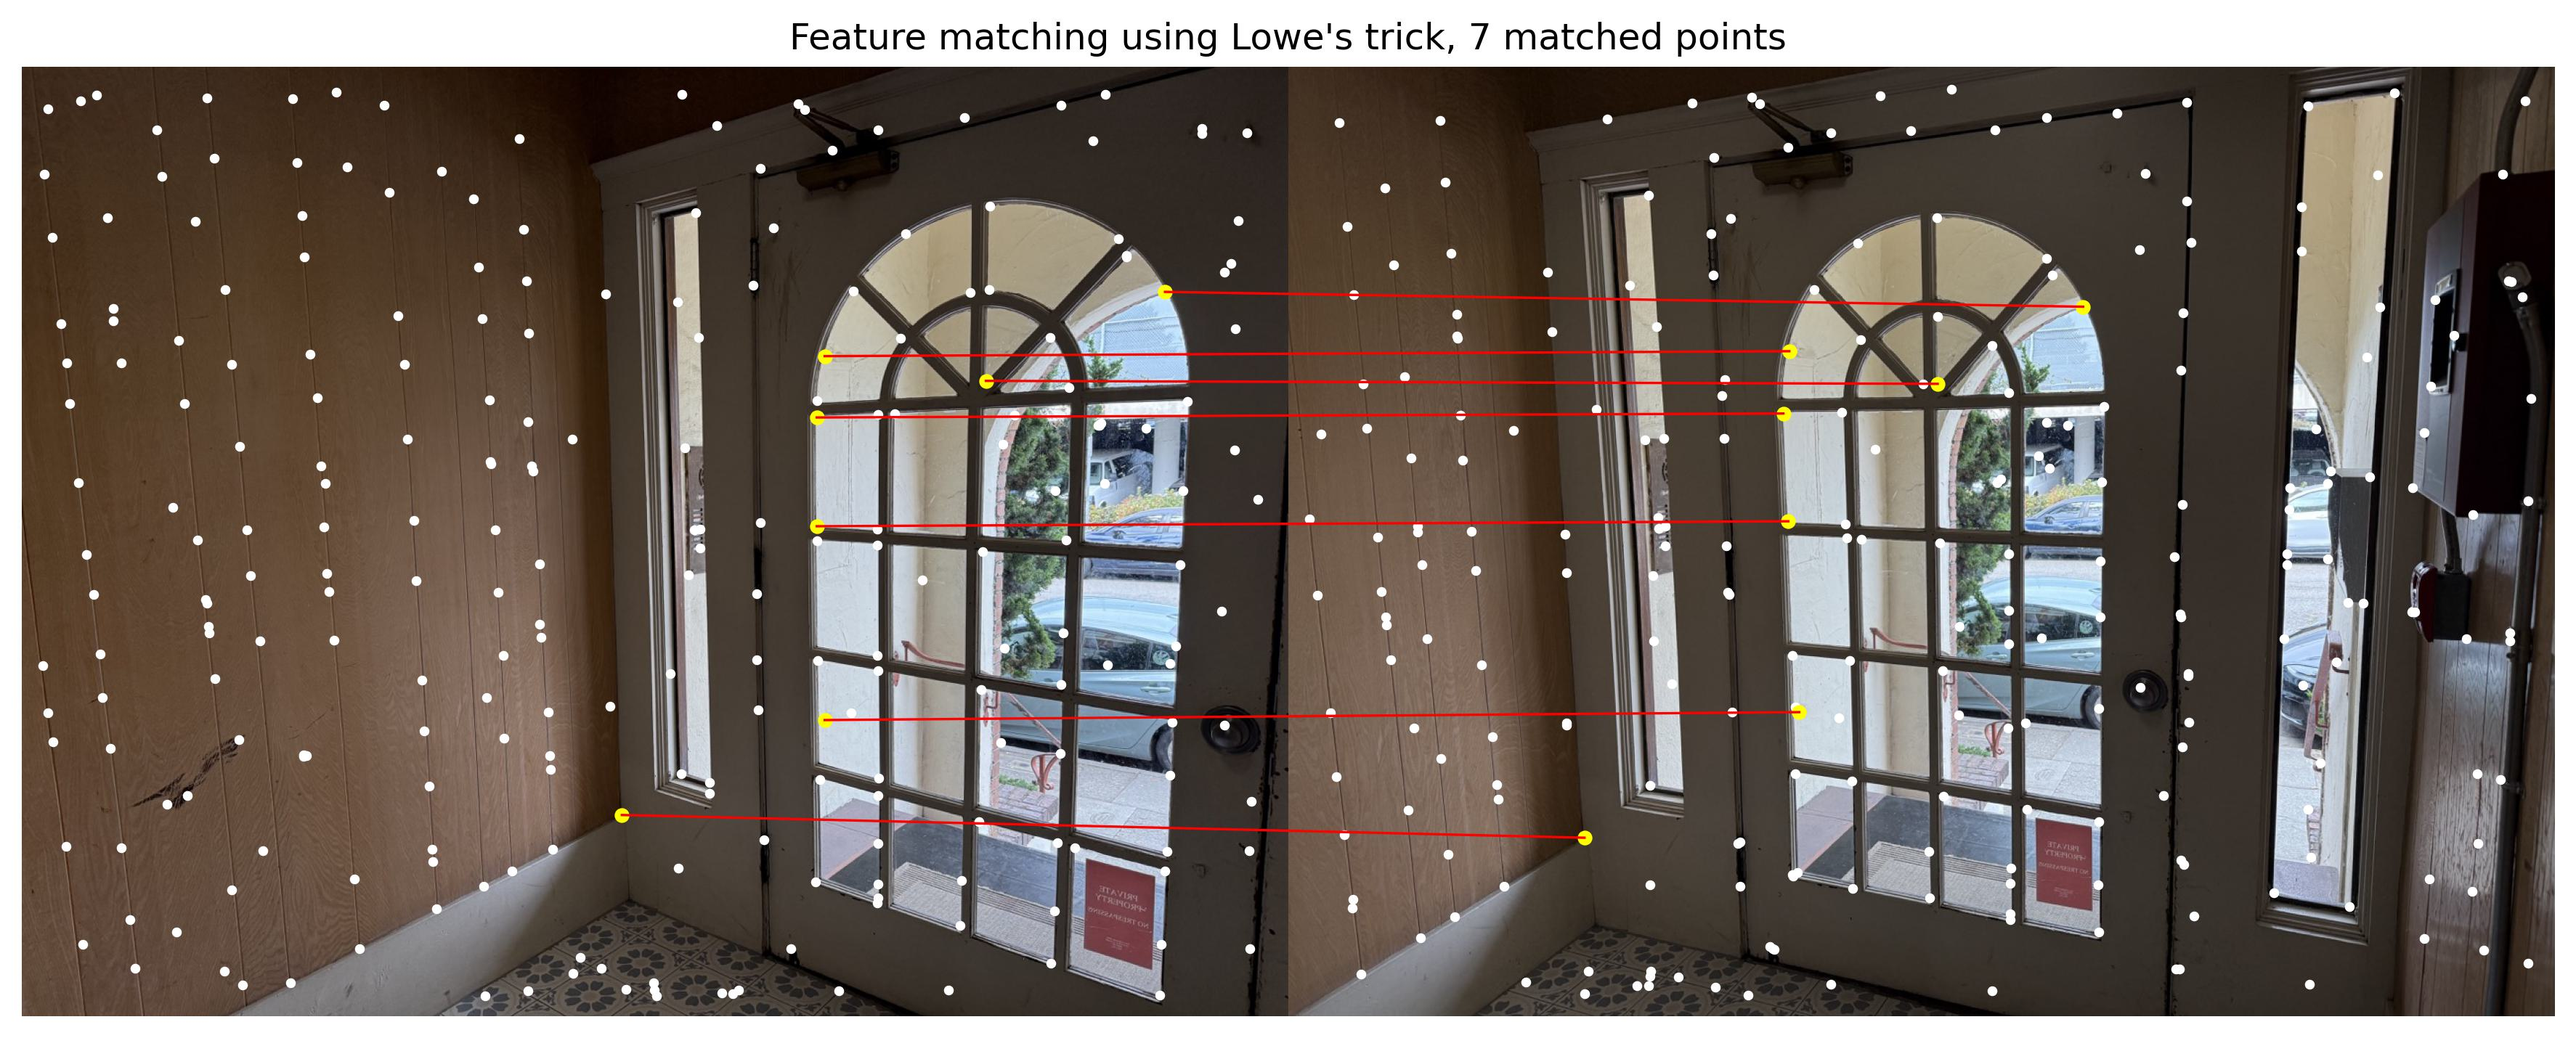
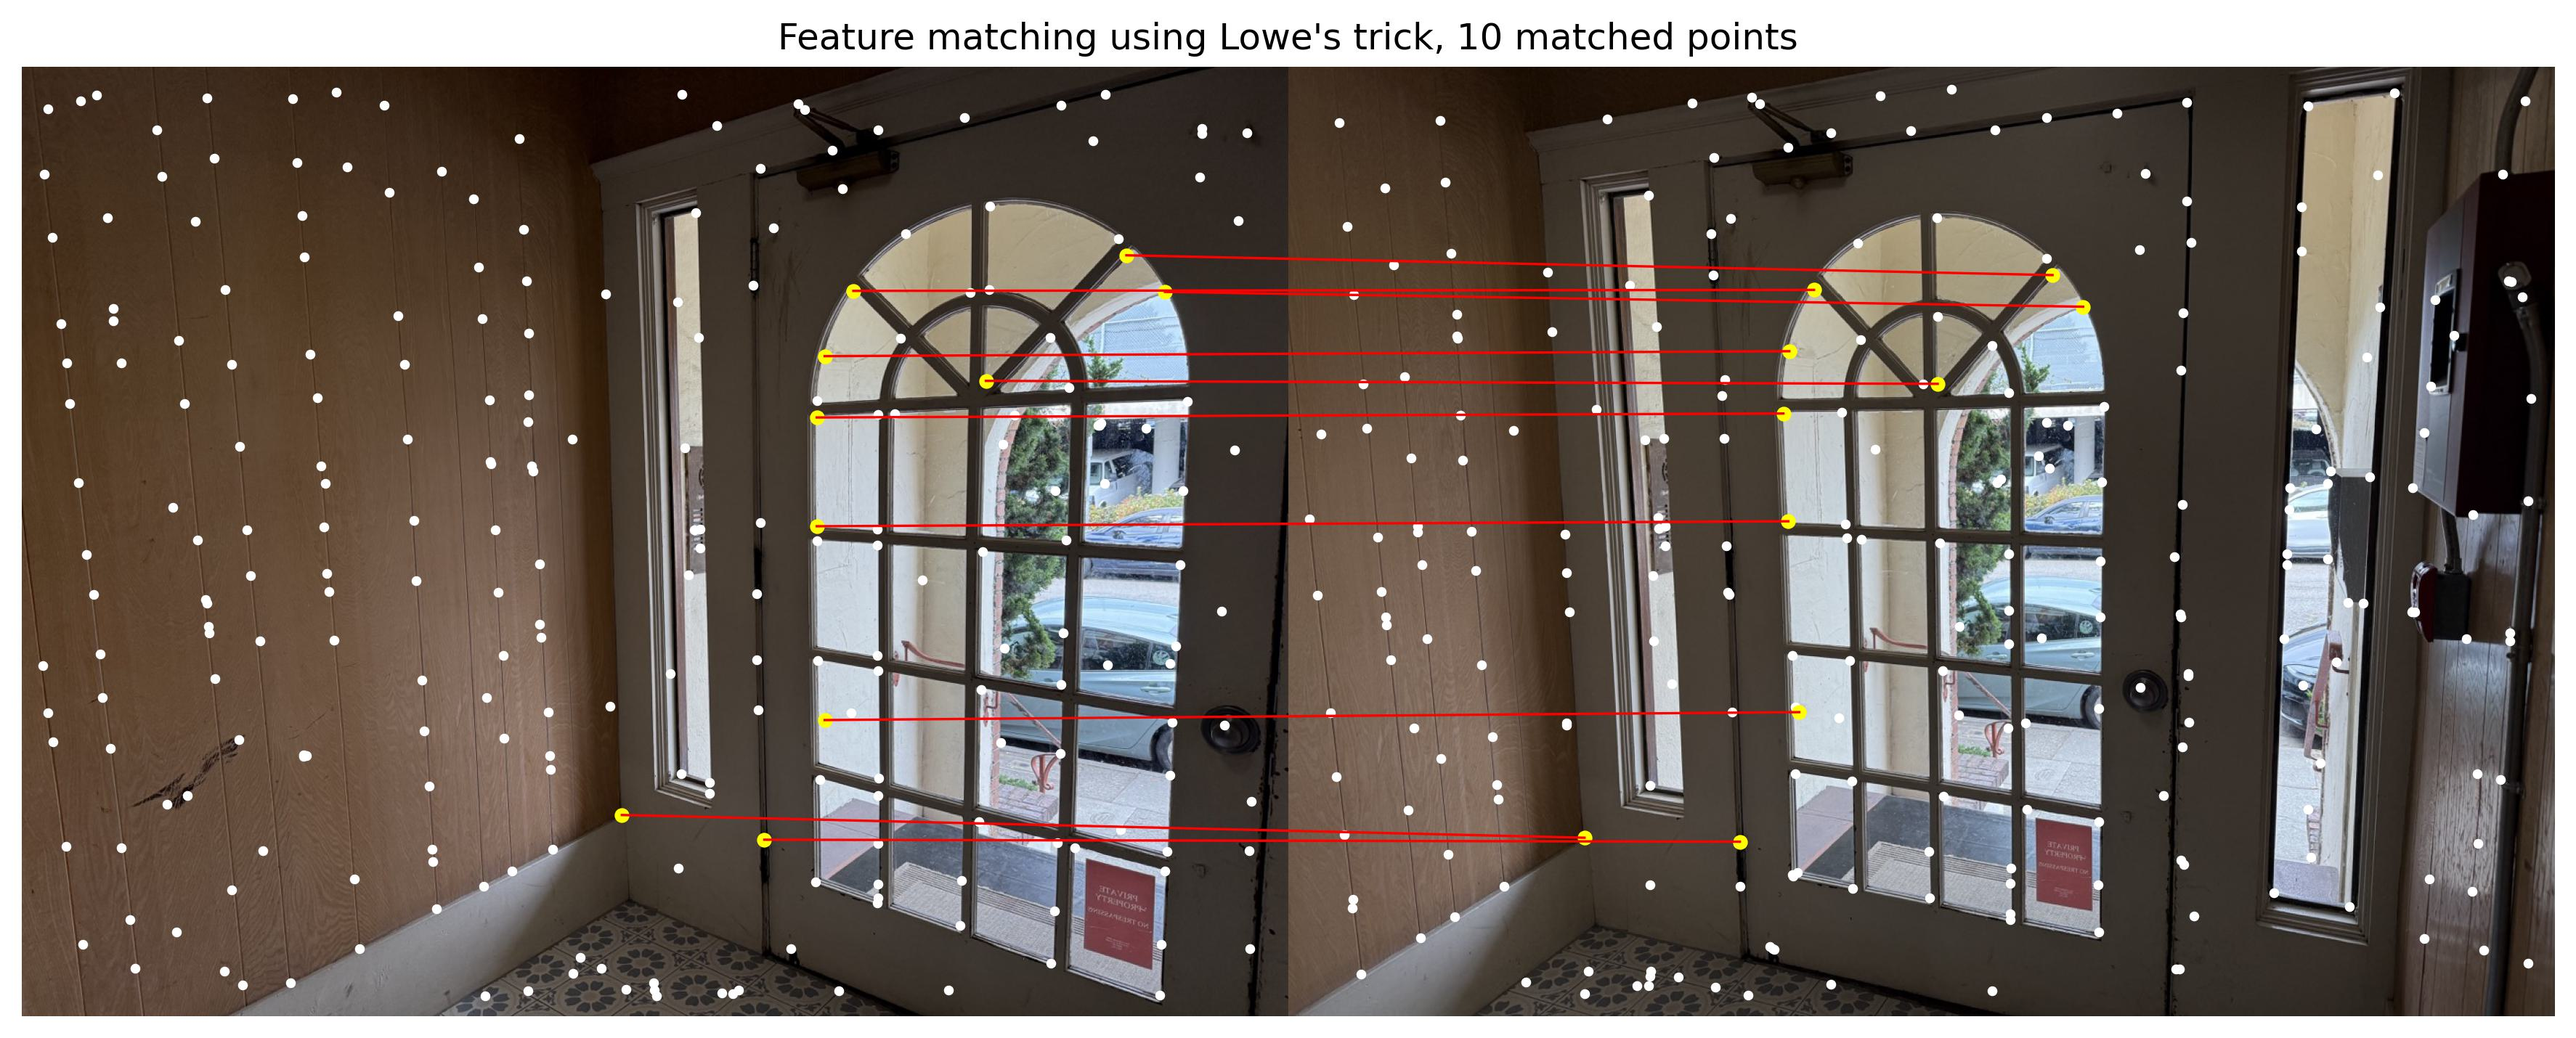
proj 3, b&w

Changed region(s): [[0.3101, 0.2462, 0.8063, 0.3077], [0.3101, 0.0, 0.7133, 0.0615], [0.2791, 0.8, 0.6823, 0.8308]]

diff --git a/pages/proj3/index.tsx b/pages/proj3/index.tsx
@@ -159,8 +159,12 @@ export default function Proj3() {
 
   const harris_example = [
     {
-      name: "Campus, ANMS comparison",
+      name: "Campus, Harris corners, min_distance=1",
       path: "/media/proj3/3b/campus_harris_all.jpeg",
+    },
+    {
+      name: "Campus, Harris corners, min_distance=28",
+      path: "/media/proj3/3b/campus_harris_254.jpeg",
     },
     {
       name: "Campus, ANMS comparison",
@@ -225,6 +229,40 @@ export default function Proj3() {
     {
       name: "Street, RANSAC, after tuning",
       path: "/media/proj3/3b/street_ransac_1000.jpg",
+    },
+  ];
+
+  const campus_src_rot = [
+    {
+      name: "Campus left",
+      path: "/media/proj3/3b/campus_left_rotated.jpeg",
+    },
+    {
+      name: "Campus right",
+      path: "/media/proj3/3b/campus_right.jpeg",
+    },
+  ];
+
+  const rot = [
+    {
+      name: "Campus, Harris corners with orientation",
+      path: "/media/proj3/3b/campus_harris_orientation.jpeg",
+    },
+    {
+      name: "Campus, Harris + ANMS with orientation ",
+      path: "/media/proj3/3b/campus_anms_orientation.jpeg",
+    },
+    {
+      name: "Feature descriptors with rotation invarance",
+      path: "/media/proj3/3b/descriptors_rot_16.jpeg",
+    },
+    {
+      name: "Campus, matching features with rotation invarance",
+      path: "/media/proj3/3b/campus_matched_rot_250.jpeg",
+    },
+    {
+      name: "Campus, auto-stitched mosaid using rotation invarance",
+      path: "/media/proj3/3b/campus_ransac_rot_250.jpg",
     },
   ];
 
@@ -423,9 +461,13 @@ h = (A^T A)^{-1} A^T b
   $$`}
           />
           In code, I used{" "}
-          <SyntaxHighlighter language="python">
-            {"h, _, _, _ = np.linalg.lstsq(A, b, rcond=None) "}
-          </SyntaxHighlighter>{" "}
+        </p>
+
+        <SyntaxHighlighter language="python">
+          {"h, _, _, _ = np.linalg.lstsq(A, b, rcond=None) "}
+        </SyntaxHighlighter>
+        <p>
+          {" "}
           to solve for the 8 unknowns, and append h_33 = 1 to the bottom right
           corner of the 3x3 matrix to get H. Below are the H matrices for each
           of the image sets above, using H = computeH(im1_pts,im2_pts):
@@ -788,16 +830,20 @@ x_1 = f \cdot \tan(\theta) + c_{x1}, \quad
     H_l(x, y) = \left( \nabla_{\sigma_d} P_l(x, y) \, \nabla_{\sigma_d} P_l(x, y)^{T} \right) * g_{\sigma_i}(x, y)
   `}
         />
-        {harris_example.slice(0, 1).map((img, idx) => (
-          <div key={idx} className="flex flex-col items-center">
-            <Image src={img.path} alt={img.name} width={300} height={200} />
-            <p className="mt-2 text-sm font-medium text-center">{img.name}</p>
-          </div>
-        ))}
         <p>
           With <code>min_distance</code> set to 1, we see that thousands of
-          points are generated on the image.
+          points are generated on the image. With <code>min_distance=28</code>,
+          the naive Harris corner detection method gives us around 254 points.
         </p>
+        <div className="grid grid-cols-2 gap-4 sm:grid-cols-2 md:grid-cols-2 lg:grid-cols-2">
+          {harris_example.slice(0, 2).map((img, idx) => (
+            <div key={idx} className="flex flex-col items-center">
+              <Image src={img.path} alt={img.name} width={300} height={200} />
+              <p className="mt-2 text-sm font-medium text-center">{img.name}</p>
+            </div>
+          ))}
+        </div>
+
         <p>
           <span className="font-semibold">
             Adaptive non-maximal suppression.{" "}
@@ -831,13 +877,14 @@ x_1 = f \cdot \tan(\theta) + c_{x1}, \quad
           <InlineMath math="r_i" />.
         </p>
         <p>
-          I used <code>min_distance=28</code> for the naive Harris corner
-          detection method. This gives us around 254 points. For my Harris
-          corner detections with ANMC, I picked{" "}
-          <code>n=250, c_robust=0.9, min_distance_1</code> to get 250 corner
-          features in the same image.
+          To avoid ANMS returning local maximum in a flat area (where gradient
+          value approaches 0), I added a threshold so that flatter areas in the
+          image gets artificially large suppression radius. This is effective,
+          as the below ANMS harris corners are all concentrated along the edges
+          and corners of the building, rather than distributed in the sky like
+          the one without using ANMS.
         </p>
-        {harris_example.slice(1, 2).map((img, idx) => (
+        {harris_example.slice(2, 3).map((img, idx) => (
           <div key={idx} className="flex flex-col items-center">
             <Image src={img.path} alt={img.name} width={800} height={200} />
             <p className="mt-2 text-sm font-medium text-center">{img.name}</p>
@@ -972,30 +1019,104 @@ min_distance=1
 threshold_error_nn=0.3
 # RANSAC inliner threshold: range for features to be considered as inliners
 inliner_threshold=5
-#RANSAC number of iterations
-num_iters=500
+# RANSAC number of iterations
+num_iters=1000
 `}
         </SyntaxHighlighter>
         <p>Here are the result homographies my RANSAC algorithm produced.</p>
-        <p className="my-4">
-          As one could tell, the RANSAC-computed homography for the campus pair
-          is almost perfect, while the street pair is off by obvious error
-          margins. If one look closely to the door homography, some misalignment
-          is in the bottom right corner of the glass door as well. Why does this
-          happen, and how could we improve the alignment?
-        </p>
+
         {ransac_initial.map((img, idx) => (
           <div key={idx} className="flex flex-col items-center">
             <Image src={img.path} alt={img.name} width={800} height={200} />
             <p className="mt-2 text-sm font-medium text-center">{img.name}</p>
           </div>
         ))}
+        <h3 className="font-semibold">Comparing manual and auto stitching</h3>
+        <p>
+          Below are side-by-side comparisons between manual and auto stitching.
+          Manual stitching images are from Project 3 part A. We could see that
+          while the campus and door image sets have very similar homography
+          alignment results, manual stiching outperforms auto stitching in the
+          street image set.
+        </p>
+        <div className="grid grid-cols-2 gap-4 sm:grid-cols-2 md:grid-cols-2 lg:grid-cols-2">
+          {campus.slice(2, 3).map((img, idx) => (
+            <div key={idx} className="flex flex-col items-center">
+              <Image src={img.path} alt={img.name} width={600} height={200} />
+              <p className="mt-2 text-sm font-medium text-center">
+                Campus, manual stitching
+              </p>
+            </div>
+          ))}
+          {ransac_initial.slice(0, 1).map((img, idx) => (
+            <div key={idx} className="flex flex-col items-center">
+              <Image src={img.path} alt={img.name} width={600} height={200} />
+              <p className="mt-2 text-sm font-medium text-center">
+                Campus, auto stitching
+              </p>
+            </div>
+          ))}
+        </div>
+        <div className="grid grid-cols-2 gap-4 sm:grid-cols-2 md:grid-cols-2 lg:grid-cols-2">
+          {door.slice(2, 3).map((img, idx) => (
+            <div key={idx} className="flex flex-col items-center">
+              <Image src={img.path} alt={img.name} width={600} height={200} />
+              <p className="mt-2 text-sm font-medium text-center">
+                Door, manual stitching
+              </p>
+            </div>
+          ))}
+          {ransac_initial.slice(1, 2).map((img, idx) => (
+            <div key={idx} className="flex flex-col items-center">
+              <Image src={img.path} alt={img.name} width={600} height={200} />
+              <p className="mt-2 text-sm font-medium text-center">
+                Door, auto stitching
+              </p>
+            </div>
+          ))}
+        </div>
+        <div className="grid grid-cols-2 gap-4 sm:grid-cols-2 md:grid-cols-2 lg:grid-cols-2">
+          {street.slice(2, 3).map((img, idx) => (
+            <div key={idx} className="flex flex-col items-center">
+              <Image src={img.path} alt={img.name} width={600} height={200} />
+              <p className="mt-2 text-sm font-medium text-center">
+                Street, manual stitching
+              </p>
+            </div>
+          ))}
+          {ransac_initial.slice(2, 3).map((img, idx) => (
+            <div key={idx} className="flex flex-col items-center">
+              <Image src={img.path} alt={img.name} width={600} height={200} />
+              <p className="mt-2 text-sm font-medium text-center">
+                Street, auto stitching
+              </p>
+            </div>
+          ))}
+        </div>
+        <p>
+          If you zoom into the street auto-stitching image, you could see blurs
+          on the top right corner of the building.
+        </p>
+        <div className="float-left mr-4 mb-2 flex flex-col items-center">
+          <Image
+            src={"/media/proj3/3b/street_blur.jpeg"}
+            alt={"Blur in auto-stitched Street mosaic"}
+            width={200}
+            height={200}
+          />
+        </div>
+        <p className="my-4">
+          As one could tell, the RANSAC-computed homography for the campus pair
+          and the door pair are almost perfect, while the street pair is off by
+          obvious error margins. If one look closely to the street homography,
+          the building has some misalignment . Why does this happen, and how
+          could we improve the alignment?
+        </p>
         <p>
           <span className="font-semibold">Improvements. </span>This is mostly
-          because both the Door and the Street image pairs have yielded very few
-          matching points in step B.3. While the campus image set have 32 pairs
-          of points for RANSAC to randomly select from, the other two images
-          only had 7 pairs.
+          because the Street image pairs has yielded very few matching points in
+          step B.3. While the campus image set have 62 pairs of points for
+          RANSAC to randomly select from, the street images only had 9 pairs.
         </p>
         <p>
           To fix this, I tuned the parameters and bumped up number of points
@@ -1009,11 +1130,11 @@ num_points=100 # used to be 250
 # Peak local maximum distance in ANMS
 min_distance=10 # used to be 1
 # Error threshold for nearest neighbor algorithm, threshold = err_1nn / err_2nn
-threshold_error_nn=0.25 # used to be 0.3
+threshold_error_nn=0.3 # stayed the same
 # RANSAC inliner threshold: range for features to be considered as inliners
 inliner_threshold=5 # stayed the same
 #RANSAC number of iterations
-num_iters=1000 # used to be 500
+num_iters=1000 # stayed the same
 `}
         </SyntaxHighlighter>
         {tuned_matching_res.map((img, idx) => (
@@ -1048,12 +1169,12 @@ num_iters=1000 # used to be 500
           <tbody>
             <tr className="odd:bg-white even:bg-gray-50">
               <td className="px-4 py-4 text-sm font-medium">Door</td>
-              <td className="px-4 py-4 text-sm">7 pairs</td>
+              <td className="px-4 py-4 text-sm">10 pairs</td>
               <td className="px-4 py-4 text-sm">16 pairs</td>
             </tr>
             <tr className="odd:bg-white even:bg-gray-50">
               <td className="px-4 py-4 text-sm font-medium">Campus</td>
-              <td className="px-4 py-4 text-sm">7 pairs</td>
+              <td className="px-4 py-4 text-sm">9 pairs</td>
               <td className="px-4 py-4 text-sm">23 pairs</td>
             </tr>
           </tbody>
@@ -1076,6 +1197,97 @@ num_iters=1000 # used to be 500
               )
           )}
         </div>
+      </section>
+
+      <section className="space-y-4">
+        <h2 className="text-xl font-semibold">
+          Part B.5 Bells & Whistles: Rotation invariance
+        </h2>
+        <p>
+          In Part B.3, we took patches axis-aligned with the image, o when the
+          image rotates, your patch (and descriptor) won’t align — hence not
+          rotation invariant. This section will add rotation invariance using
+          the orientation angles for each patch. To test this, let us rotate the
+          left image 180 degrees, so the two source images for the campus set
+          mosaic would look like below.
+        </p>
+        <div className="grid grid-cols-2 gap-4 sm:grid-cols-2 md:grid-cols-2 lg:grid-cols-2">
+          {campus_src_rot.map((img, idx) => (
+            <div key={idx} className="flex flex-col items-center">
+              <Image src={img.path} alt={img.name} width={400} height={200} />
+              <p className="mt-2 text-sm font-medium text-center">{img.name}</p>
+            </div>
+          ))}
+        </div>
+
+        <p>
+          <span className="font-semibold">Step 1. Compute theta. </span>For each
+          Harris corner <InlineMath math={"(x, y)^T"} />, we compute a dominant
+          orientation <InlineMath math={"\\theta"} />. The image is first
+          smoothed with a Gaussian of scale{" "}
+          <InlineMath math={"\\sigma_o = 4.5"} />, then the gradients{" "}
+          <InlineMath math={"I_x, I_y"} /> are computed. The orientation is
+          given by <InlineMath math={"\\theta = \\arctan2(I_y, I_x)"} />,
+          aligning the feature descriptor with the local gradient direction for
+          rotation invariance. Below are the interst points with orientation,
+          using harris corner and ANMS.
+        </p>
+        <div className="grid grid-cols-1 gap-4 sm:grid-cols-1 md:grid-cols-1 lg:grid-cols-1">
+          {rot.slice(0, 2).map((img, idx) => (
+            <div key={idx} className="flex flex-col items-center">
+              <Image src={img.path} alt={img.name} width={400} height={200} />
+              <p className="mt-2 text-sm font-medium text-center">{img.name}</p>
+            </div>
+          ))}
+        </div>
+        <p>
+          <span className="font-semibold">
+            Step 2. Get rotation-invariant descriptors.{" "}
+          </span>
+          For each interest point (x, y) with orientation θ, we rotate the
+          coordinate frame around that point by <InlineMath math={`–\\theta`} />
+          , before extracting the patch. So instead of taking a 40×40 window
+          aligned with the image axes like Part B.3, we take one aligned with
+          the keypoint’s dominant orientation. That way, no matter how the
+          object rotates in the image, the descriptor remains consistent.
+        </p>
+        <div className="grid grid-cols-1 gap-4 sm:grid-cols-1 md:grid-cols-1 lg:grid-cols-1">
+          {rot.slice(2, 3).map((img, idx) => (
+            <div key={idx} className="flex flex-col items-center">
+              <Image src={img.path} alt={img.name} width={800} height={200} />
+              <p className="mt-2 text-sm font-medium text-center">{img.name}</p>
+            </div>
+          ))}
+        </div>
+        <p>
+          <span className="font-semibold">Step 3. Feature matching. </span>We
+          perform feature matching as usual, but because of the
+          orientation-invariant descriptors, we now see matching lines between
+          source interest points intersecting with each other. This means that
+          we are no longer only searching for matching features along the image
+          axes, but we are matching features invariant to image rotation.
+        </p>
+        <div className="grid grid-cols-1 gap-4 sm:grid-cols-1 md:grid-cols-1 lg:grid-cols-1">
+          {rot.slice(3, 4).map((img, idx) => (
+            <div key={idx} className="flex flex-col items-center">
+              <Image src={img.path} alt={img.name} width={800} height={200} />
+              <p className="mt-2 text-sm font-medium text-center">{img.name}</p>
+            </div>
+          ))}
+        </div>
+        <p>
+          <span className="font-semibold">Step 4. Compute mosaic. </span>Last
+          but not least, we compute our homography. It looks as expected,
+          proving that rotation of input images does not affect the homography
+          alignment due to the rotation-invariance approeach to feature
+          descriptors.
+        </p>
+        {rot.slice(4, 5).map((img, idx) => (
+          <div key={idx} className="flex flex-col items-center">
+            <Image src={img.path} alt={img.name} width={800} height={200} />
+            <p className="mt-2 text-sm font-medium text-center">{img.name}</p>
+          </div>
+        ))}
       </section>
     </main>
   );
